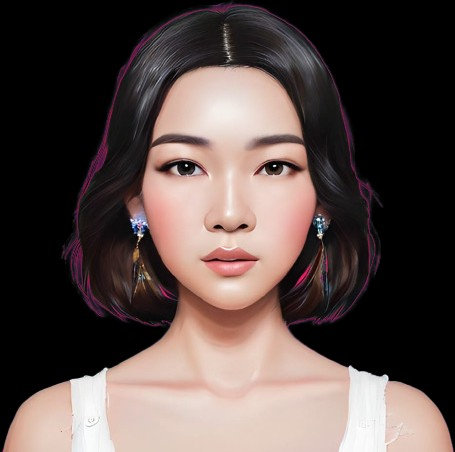
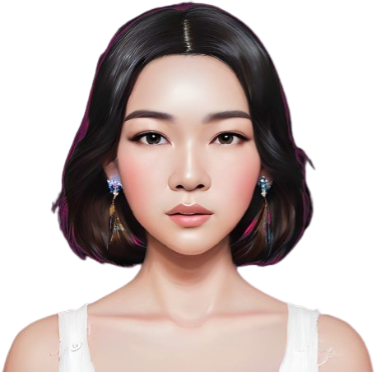
profile picture

diff --git a/index.html b/index.html
@@ -12,10 +12,10 @@
             <div class="container">
                 <div class="header-content">
                     <img src="images/Clipped_image_20230927_171427.png" alt="Your Name's Photo">
-                    <p>Web Developer | Designer</p>
+                    <p>Freelancer</p>
                 </div>
                 <nav>
-                <h1>Your Name</h1>
+                <h1>Threechada Patavanich</h1>
                 <ul>
                     <li><a href="#about">About</a></li>
                     <li><a href="#experience">Experience</a></li>

diff --git a/styles.css b/styles.css
@@ -5,6 +5,12 @@
 
 /* กำหนดและตั้งค่าสำหรับ header */
 
+.header-content img {
+    width: 150px; /* ปรับขนาดรูปภาพตามที่คุณต้องการ */
+    border-style: solid 50%; /* กรอบรูป */
+    margin-bottom: 10px;
+}
+
 
 header h1 {
   font-size: 24px;
@@ -57,7 +63,7 @@ header {
   color: #fff;
   text-align: center;
   padding: 20px;
-  position: sticky;
+  position: static;
   top: 0;
   padding: 10px 0;
     z-index: 100;
